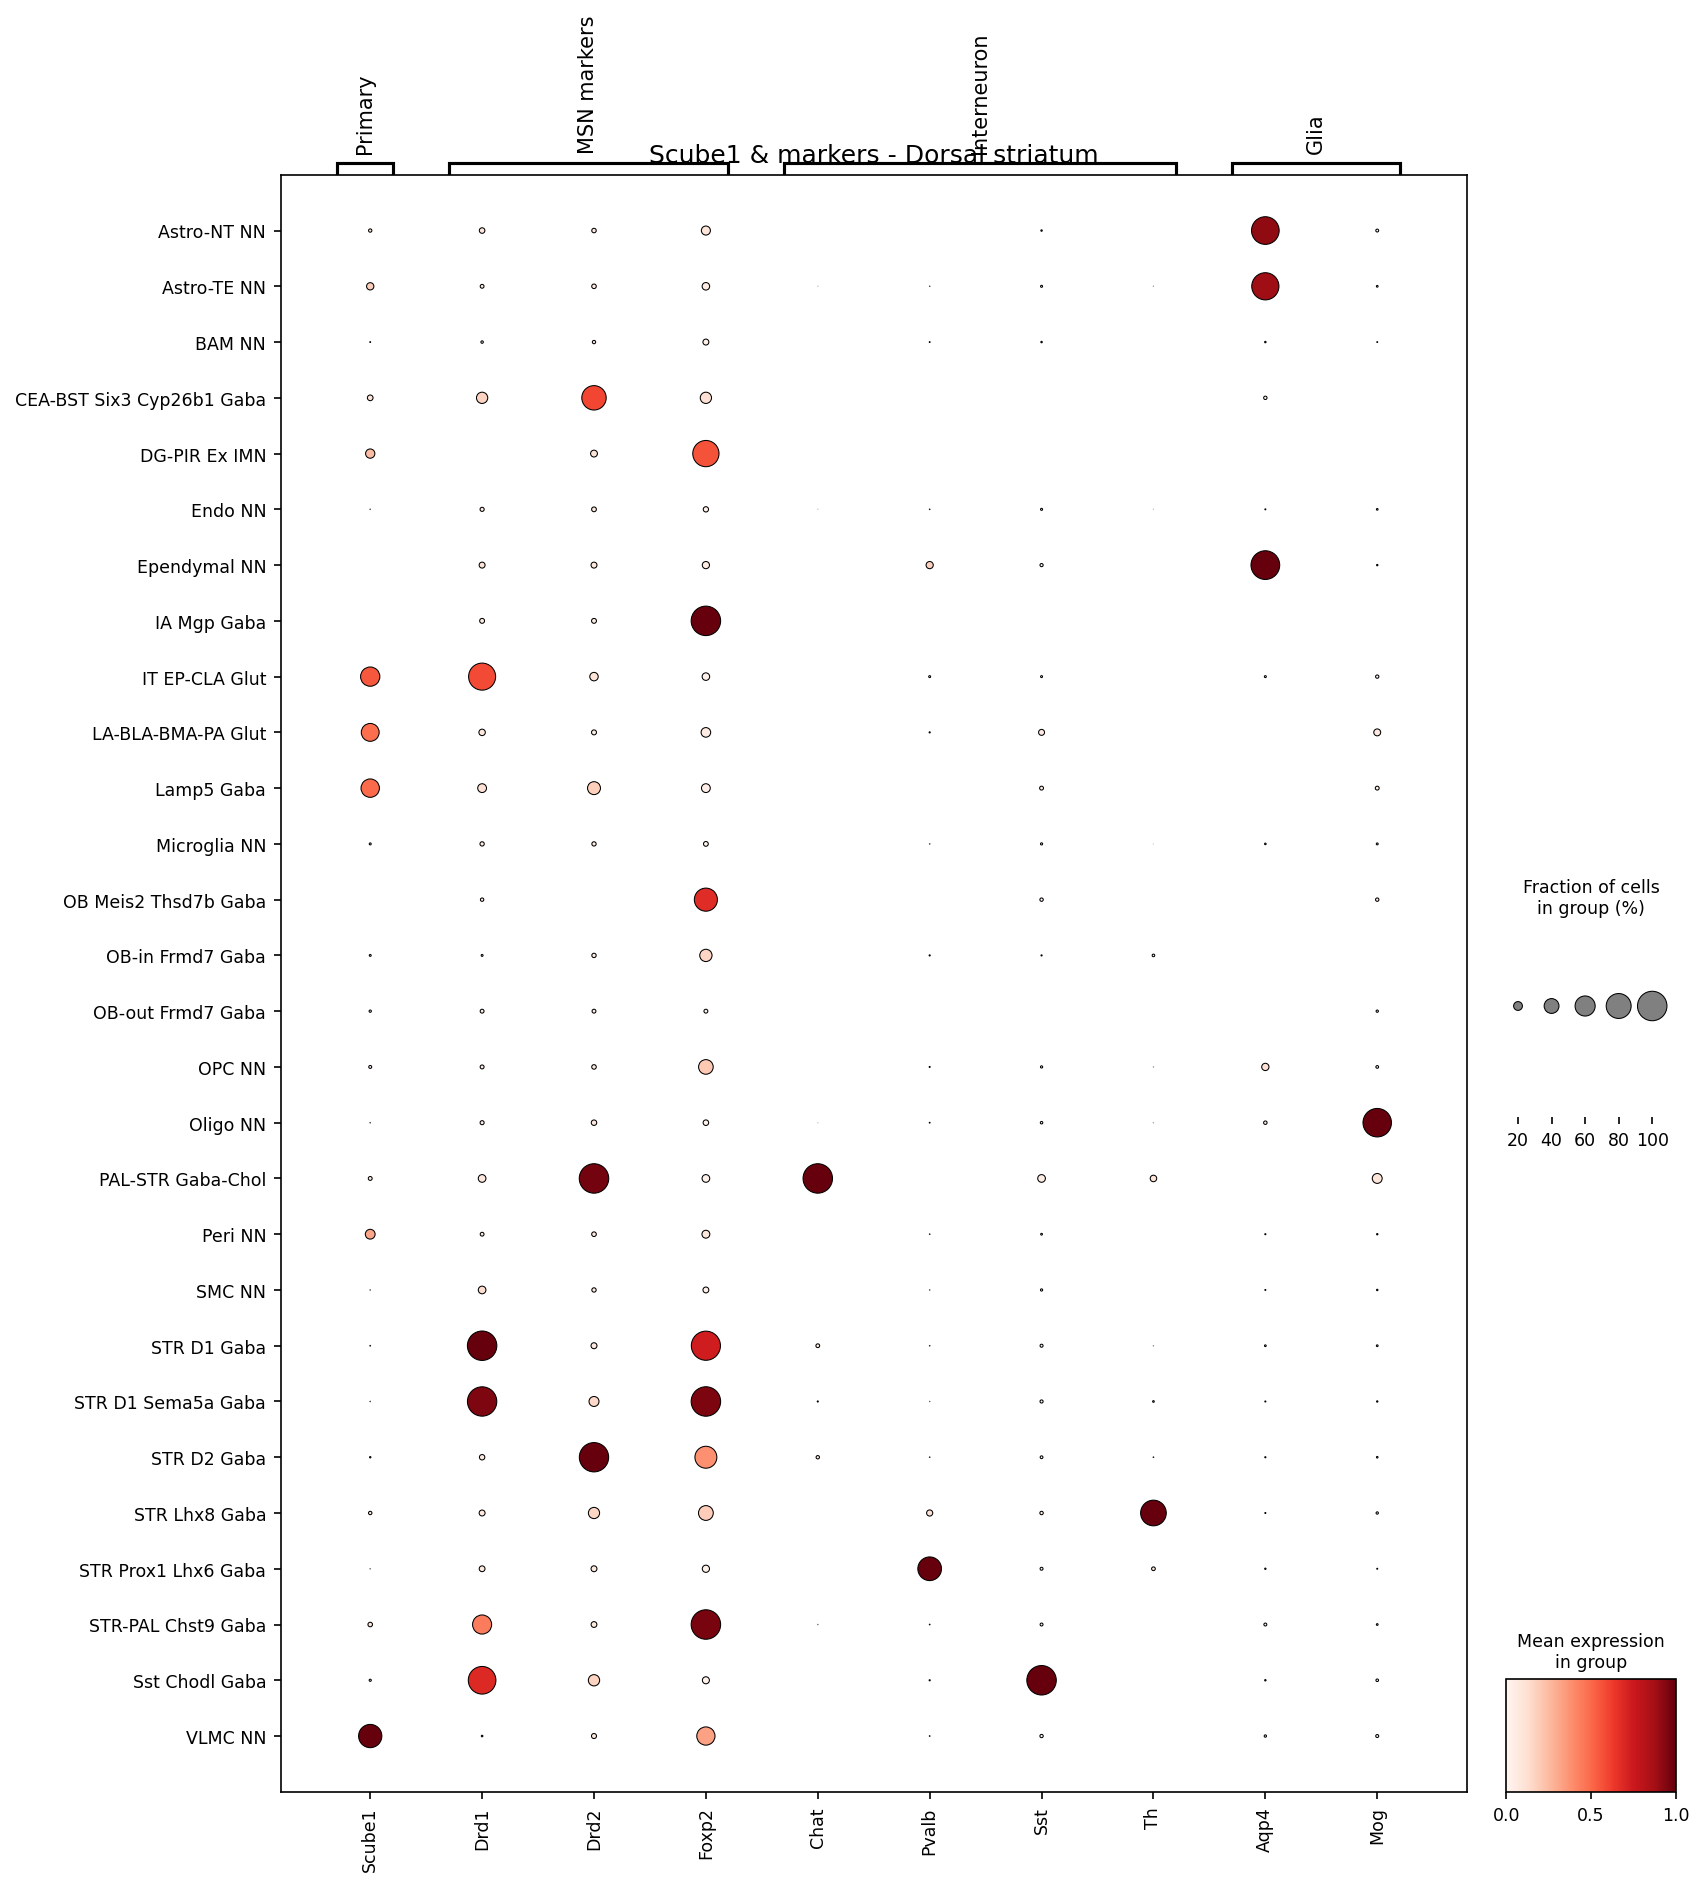
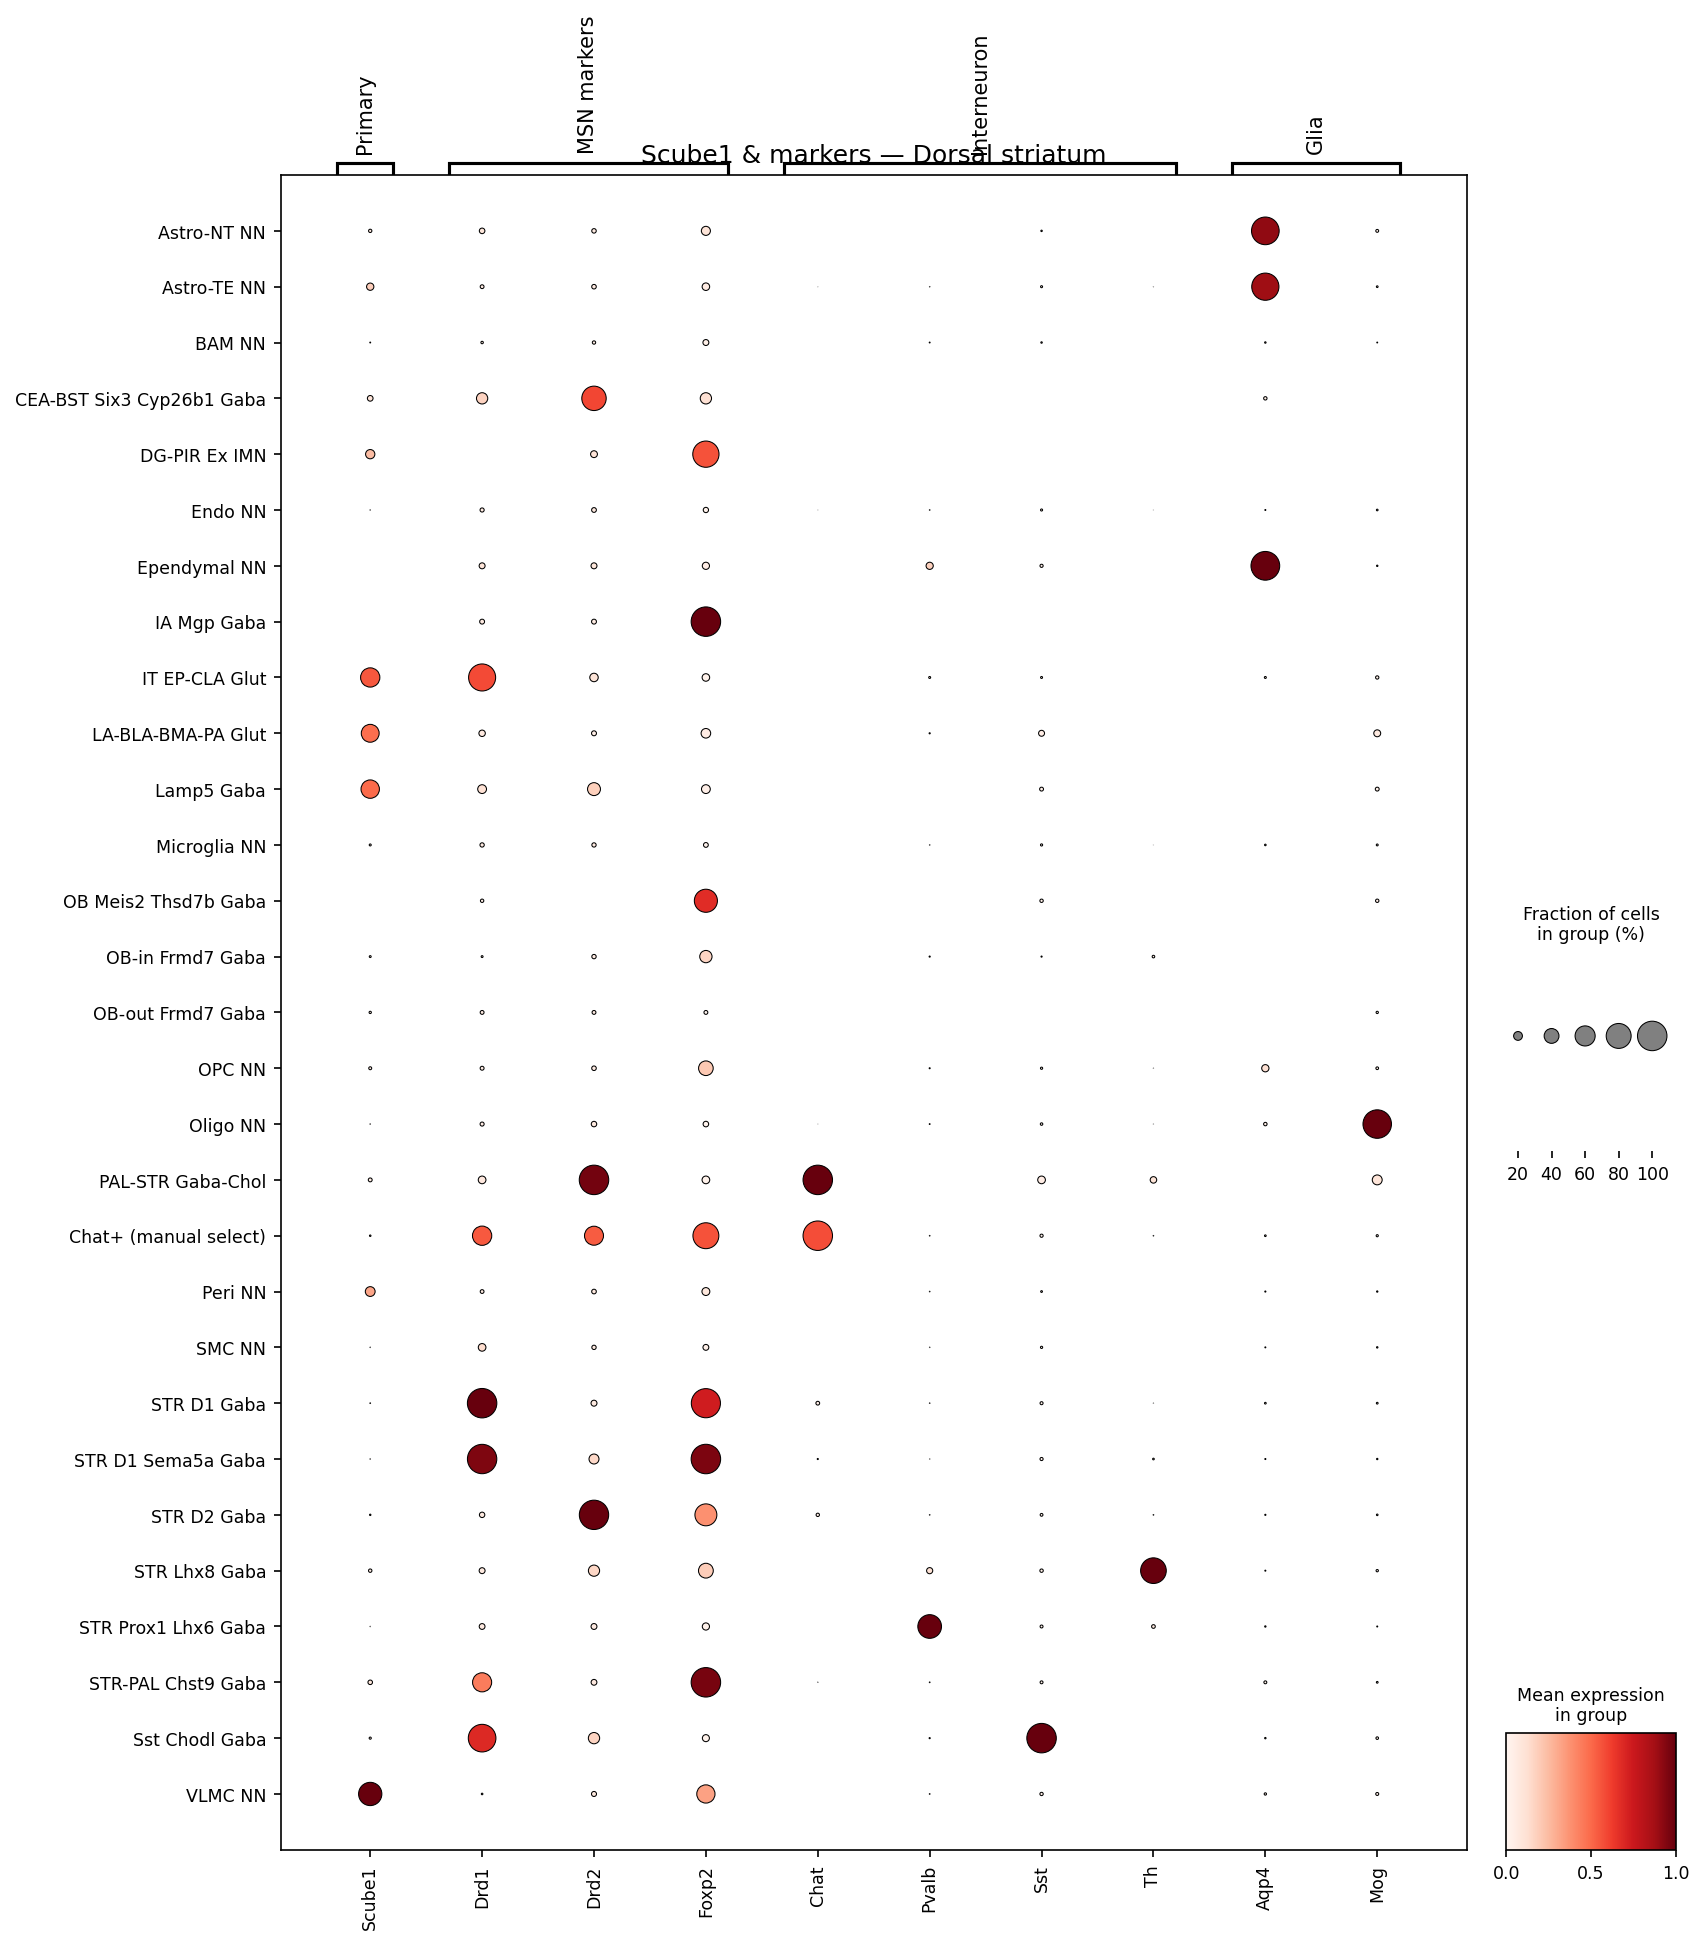
Add Chat+ manual-select group to striatum dotplots
Adds a "Chat+ (manual select)" row to all three dotplots (combined,
STRd, STRv) that shows all cells with Chat expression > 0, placed
immediately after the PAL-STR Gaba-Chol subclass row. Prints cell
counts (n) for every group in each dotplot.

https://claude.ai/code/session_017o3yPK5BF22dctXQ4c6VbM

diff --git a/notebooks/run_dotplot_chat.py b/notebooks/run_dotplot_chat.py
@@ -1,0 +1,181 @@
+#!/usr/bin/env python3
+"""Generate striatum dotplots with Chat+ manual-select group."""
+
+import pandas as pd
+import numpy as np
+import re
+import anndata
+import scanpy as sc
+import matplotlib
+matplotlib.use('Agg')
+import matplotlib.pyplot as plt
+from pathlib import Path
+
+from abc_atlas_access.abc_atlas_cache.abc_project_cache import AbcProjectCache
+from abc_atlas_access.abc_atlas_cache.anndata_utils import get_gene_data
+
+# ---------- 1. Load data ----------
+download_base = Path('../../data/abc_atlas')
+abc_cache = AbcProjectCache.from_s3_cache(download_base)
+
+cell = abc_cache.get_metadata_dataframe(directory='WMB-10X', file_name='cell_metadata', dtype={'cell_label': str})
+cell.set_index('cell_label', inplace=True)
+print(f"Total cells: {len(cell):,}")
+
+gene = abc_cache.get_metadata_dataframe(directory='WMB-10X', file_name='gene')
+gene.set_index('gene_identifier', inplace=True)
+
+cluster_details = abc_cache.get_metadata_dataframe(
+    directory='WMB-taxonomy',
+    file_name='cluster_to_cluster_annotation_membership_pivoted',
+    keep_default_na=False
+)
+cluster_details.set_index('cluster_alias', inplace=True)
+cell_extended = cell.join(cluster_details, on='cluster_alias')
+
+# ---------- 2. Filter to striatum ----------
+str_cells = cell_extended[cell_extended['region_of_interest_acronym'].isin(['STRd', 'STRv'])].copy()
+
+cortex_patterns = ['CTX', 'L2/3', 'L4/5', 'L5 ', 'L6 ', 'L6b', 'RSP']
+cortical = [s for s in str_cells['subclass'].unique() if any(p in s for p in cortex_patterns)]
+str_cells = str_cells[~str_cells['subclass'].isin(cortical)].copy()
+print(f"Striatum cells (after cortex exclusion): {len(str_cells):,}")
+
+# ---------- 3. Gene list ----------
+primary_gene = ['Scube1']
+msn_markers = ['Drd1', 'Drd2', 'Foxp2']
+interneuron_markers = ['Chat', 'Pvalb', 'Sst', 'Th']
+glial_markers = ['Aqp4', 'Mog']
+all_genes = primary_gene + msn_markers + interneuron_markers + glial_markers
+
+found_symbols = set(gene[gene['gene_symbol'].isin(all_genes)]['gene_symbol'])
+gene_list = [g for g in all_genes if g in found_symbols]
+print(f"Genes: {gene_list}")
+
+# ---------- 4. Load expression ----------
+print("Loading expression data (this may take a few minutes)...")
+expression_data = get_gene_data(
+    abc_atlas_cache=abc_cache,
+    all_cells=str_cells,
+    all_genes=gene,
+    selected_genes=gene_list,
+    data_type='log2'
+)
+expression_data = expression_data.dropna(how='all')
+print(f"Expression: {expression_data.shape[0]:,} cells x {expression_data.shape[1]} genes")
+
+# ---------- 5. Build AnnData ----------
+common_cells = str_cells.index.intersection(expression_data.index)
+expression_data = expression_data.loc[common_cells, gene_list]
+str_cells_aligned = str_cells.loc[common_cells]
+
+region_map = {'STRd': 'Dorsal striatum', 'STRv': 'Ventral striatum'}
+str_cells_aligned['region_label'] = str_cells_aligned['region_of_interest_acronym'].map(region_map)
+
+adata = anndata.AnnData(
+    X=expression_data.values.astype(np.float32),
+    obs=str_cells_aligned[['subclass', 'supertype', 'class', 'region_of_interest_acronym', 'region_label']].copy(),
+    var=pd.DataFrame(index=gene_list)
+)
+adata.obs['subclass_short'] = adata.obs['subclass'].apply(lambda x: re.sub(r'^\d+\s+', '', x))
+adata.obs['subclass_short'] = pd.Categorical(adata.obs['subclass_short'])
+adata.obs['subclass'] = pd.Categorical(adata.obs['subclass'])
+
+# ---------- 6. Add Chat+ manual select group ----------
+chat_col_idx = list(adata.var_names).index('Chat')
+chat_expr = adata.X[:, chat_col_idx]
+chat_mask = chat_expr > 0
+n_chat_pos = int(chat_mask.sum())
+print(f"\nChat+ cells (expression > 0): {n_chat_pos:,} out of {adata.n_obs:,}")
+
+adata_chat = adata[chat_mask].copy()
+adata_chat.obs['subclass_short'] = 'Chat+ (manual select)'
+adata_chat.obs['subclass'] = 'Chat+ (manual select)'
+
+adata_with_chat = anndata.concat([adata, adata_chat])
+
+# Order: insert Chat+ right after PAL-STR Gaba-Chol
+original_cats = list(adata.obs['subclass_short'].cat.categories)
+insert_after = 'PAL-STR Gaba-Chol'
+if insert_after in original_cats:
+    idx = original_cats.index(insert_after) + 1
+    ordered_cats = original_cats[:idx] + ['Chat+ (manual select)'] + original_cats[idx:]
+else:
+    ordered_cats = original_cats + ['Chat+ (manual select)']
+
+adata_with_chat.obs['subclass_short'] = pd.Categorical(
+    adata_with_chat.obs['subclass_short'], categories=ordered_cats, ordered=True
+)
+
+# Print cell counts
+print(f"\n{'='*60}")
+print(f"Cell counts per group (all striatum):")
+print(f"{'='*60}")
+group_counts = adata_with_chat.obs.groupby('subclass_short', observed=True).size()
+for name in ordered_cats:
+    if name in group_counts.index:
+        print(f"  {name}: n={group_counts[name]:,}")
+n_groups = len([c for c in ordered_cats if c in group_counts.index])
+print(f"\nTotal groups: {n_groups}")
+
+# ---------- 7. Dotplots ----------
+gene_groups = {
+    'Primary': [g for g in primary_gene if g in gene_list],
+    'MSN markers': [g for g in msn_markers if g in gene_list],
+    'Interneuron': [g for g in interneuron_markers if g in gene_list],
+    'Glia': [g for g in glial_markers if g in gene_list],
+}
+
+outdir = Path('scube1')
+outdir.mkdir(exist_ok=True)
+
+# All striatum
+dp = sc.pl.dotplot(
+    adata_with_chat, var_names=gene_groups, groupby='subclass_short',
+    standard_scale='var', cmap='Reds',
+    figsize=(12, max(6, n_groups * 0.5)),
+    show=False, return_fig=True
+)
+dp.style(dot_edge_color='black', dot_edge_lw=0.5)
+dp.savefig(outdir / 'dotplot_striatum_Scube1_by_subclass.png', dpi=150, bbox_inches='tight')
+plt.close()
+print(f"\nSaved: {outdir / 'dotplot_striatum_Scube1_by_subclass.png'}")
+
+# Per region
+for region in ['STRd', 'STRv']:
+    adata_region = adata_with_chat[adata_with_chat.obs['region_of_interest_acronym'] == region].copy()
+    region_name = region_map[region]
+
+    min_cells = 10
+    sub_counts = adata_region.obs.groupby('subclass_short', observed=True).size()
+    valid_subs = sub_counts[sub_counts >= min_cells].index
+    adata_region = adata_region[adata_region.obs['subclass_short'].isin(valid_subs)].copy()
+
+    region_cats = [c for c in ordered_cats if c in valid_subs]
+    adata_region.obs['subclass_short'] = pd.Categorical(
+        adata_region.obs['subclass_short'], categories=region_cats, ordered=True
+    )
+    n_sub = len(region_cats)
+
+    print(f"\n{'='*60}")
+    print(f"{region_name}: {adata_region.n_obs:,} cells, {n_sub} groups")
+    print(f"{'='*60}")
+    reg_counts = adata_region.obs.groupby('subclass_short', observed=True).size()
+    for name in region_cats:
+        if name in reg_counts.index:
+            print(f"  {name}: n={reg_counts[name]:,}")
+
+    dp = sc.pl.dotplot(
+        adata_region, var_names=gene_groups, groupby='subclass_short',
+        standard_scale='var', cmap='Reds',
+        figsize=(12, max(5, n_sub * 0.5)),
+        title=f'Scube1 & markers — {region_name}',
+        show=False, return_fig=True
+    )
+    dp.style(dot_edge_color='black', dot_edge_lw=0.5)
+    fname = outdir / f'dotplot_{region}_Scube1_by_subclass.png'
+    dp.savefig(fname, dpi=150, bbox_inches='tight')
+    plt.close()
+    print(f"Saved: {fname}")
+
+print("\nDone!")
